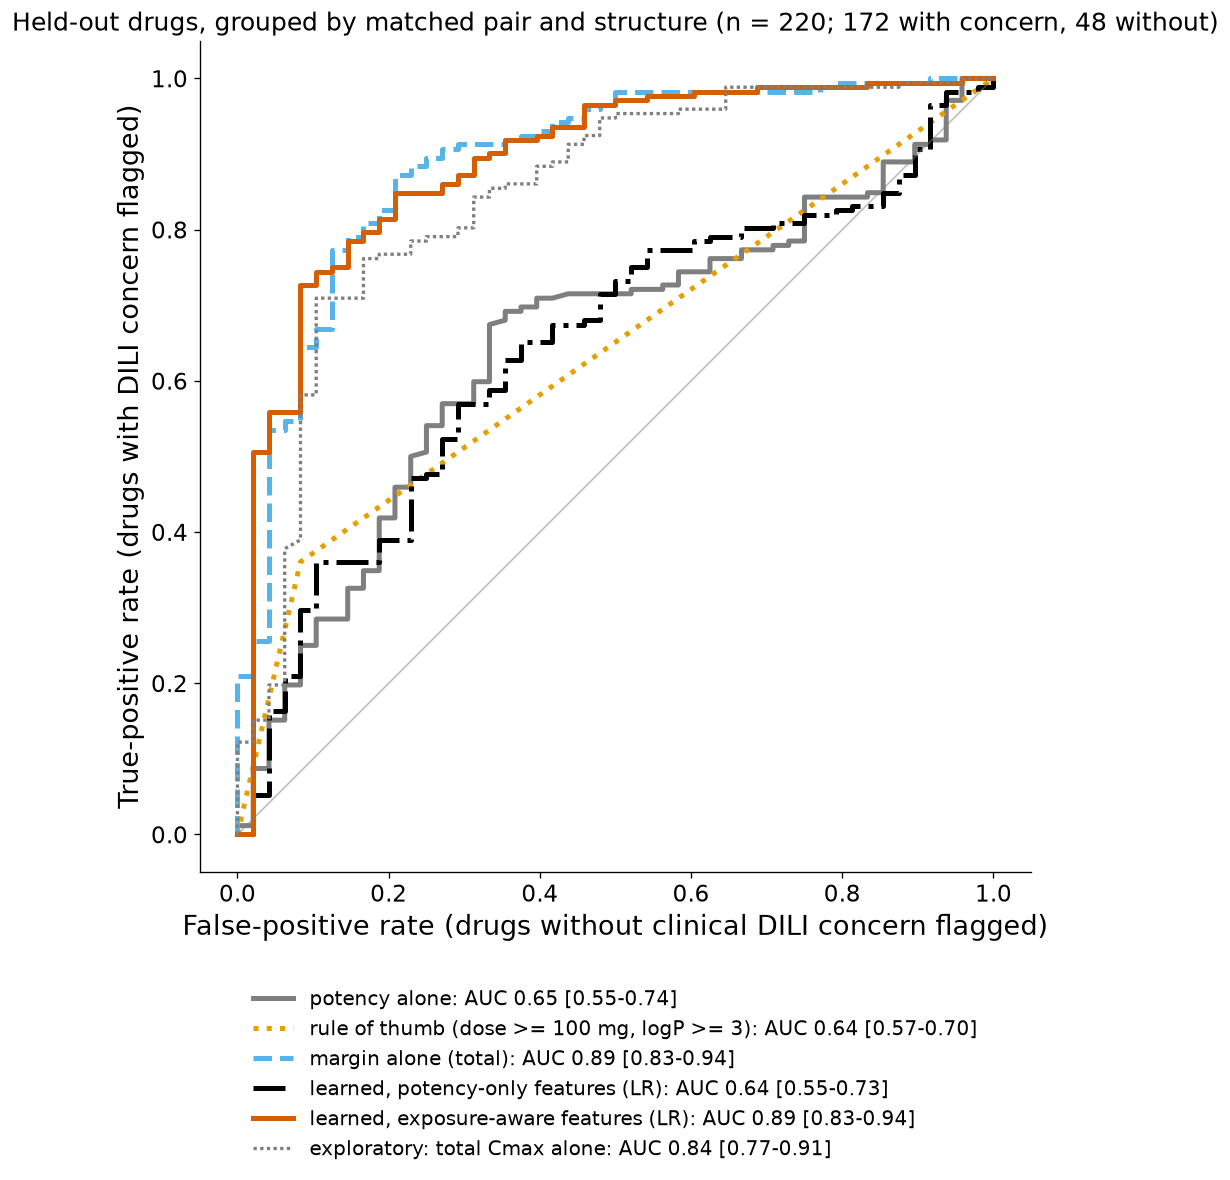
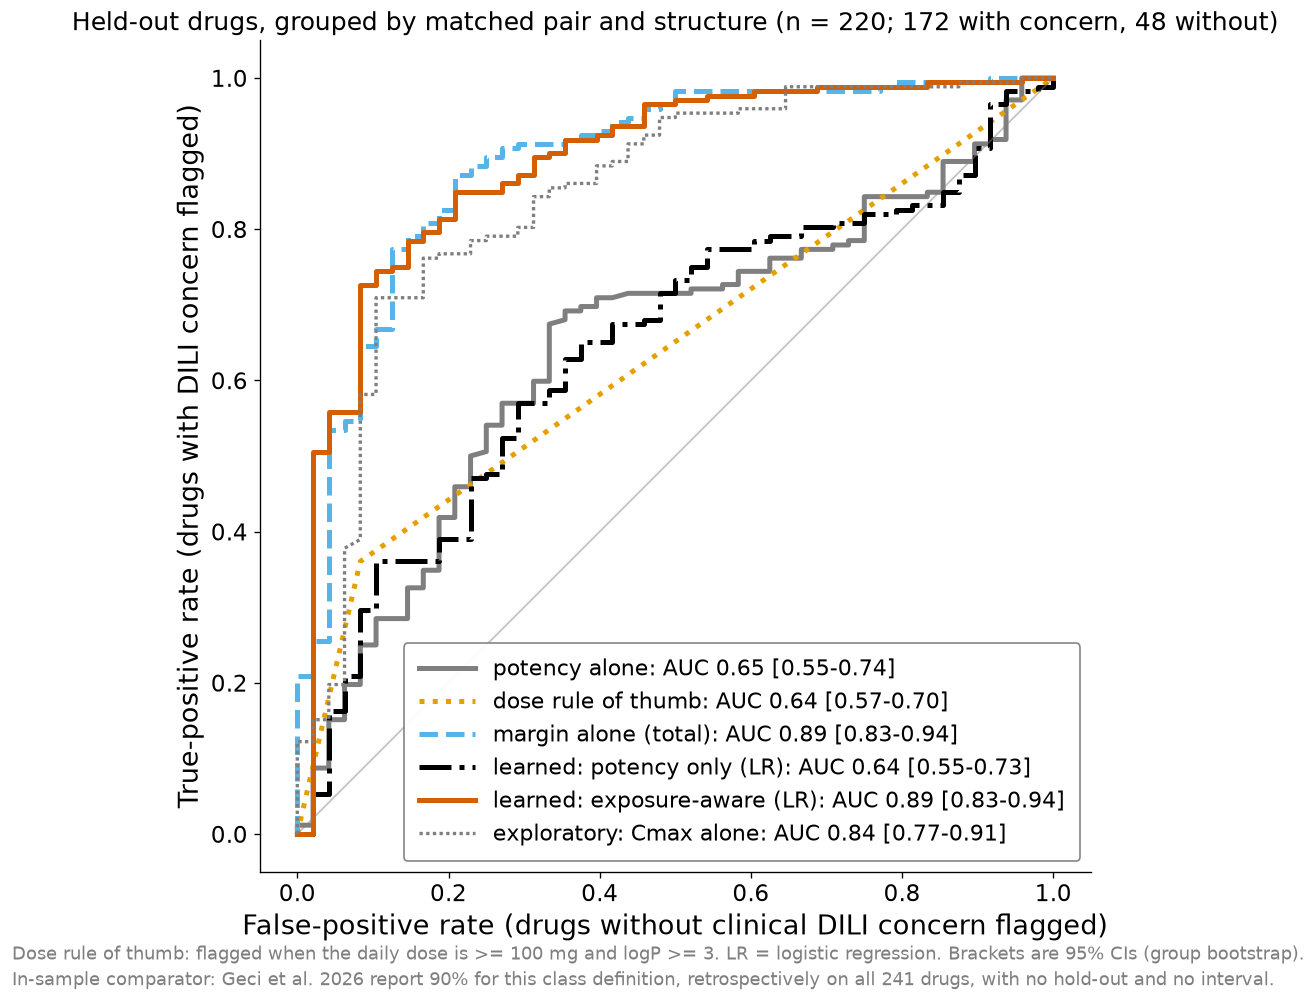
ROC legible at video size; the published comparison; count the exposure gap

Changed region(s): [[0.0, 0.0617, 0.9886, 0.9871], [0.0, 0.0, 0.9886, 0.0308]]

diff --git a/src/figures.py b/src/figures.py
@@ -217,16 +217,19 @@ def liver_overview(margins: pd.DataFrame, path: Path) -> Path:
 
 # --------------------------------------------------------------------------- validation
 
+# (arm name as the validation reports it, short label for the legend, colour, line style). The short
+# label keeps the legend inside the axes: below the axes it cost a quarter of the frame, and this
+# figure is read at video resolution. The rule-of-thumb definition moves to the footnote.
 ROC_ARMS = [
-    ("potency alone", GREY, "-"),
-    ("rule of thumb (dose >= 100 mg, logP >= 3)", ORANGE, ":"),
-    ("margin alone (total)", SKY, "--"),
-    ("learned, potency-only features (LR)", BLACK, "-."),
-    ("learned, exposure-aware features (LR)", VERMILLION, "-"),
+    ("potency alone", "potency alone", GREY, "-"),
+    ("rule of thumb (dose >= 100 mg, logP >= 3)", "dose rule of thumb", ORANGE, ":"),
+    ("margin alone (total)", "margin alone (total)", SKY, "--"),
+    ("learned, potency-only features (LR)", "learned: potency only (LR)", BLACK, "-."),
+    ("learned, exposure-aware features (LR)", "learned: exposure-aware (LR)", VERMILLION, "-"),
 ]
 
 
-EXPLORATORY_ROC_ARM = ("exploratory: total Cmax alone", GREY, (0, (1, 1)))
+EXPLORATORY_ROC_ARM = ("exploratory: total Cmax alone", "exploratory: Cmax alone", GREY, (0, (1, 1)))
 
 
 def roc_figure(result: dict, exploratory: dict, path: Path) -> Path:
@@ -235,18 +238,26 @@ def roc_figure(result: dict, exploratory: dict, path: Path) -> Path:
     scores = {**result["_scores"], **exploratory["_scores"]}
     aucs = {a["arm"]: a for a in result["arms"] + exploratory["arms"]}
     fig, ax = plt.subplots(figsize=(11, 9), dpi=120)
-    for name, colour, style in ROC_ARMS + [EXPLORATORY_ROC_ARM]:
+    for name, short, colour, style in ROC_ARMS + [EXPLORATORY_ROC_ARM]:
         fpr, tpr, _ = roc_curve(y, scores[name])
         a = aucs[name]
         ax.plot(fpr, tpr, color=colour, ls=style, lw=3 if not name.startswith("exploratory") else 2,
-                label=f"{name}: AUC {a['auc']:.2f} [{a['ci_low']:.2f}-{a['ci_high']:.2f}]")
+                label=f"{short}: AUC {a['auc']:.2f} [{a['ci_low']:.2f}-{a['ci_high']:.2f}]")
     ax.plot([0, 1], [0, 1], color=GREY, lw=1, alpha=0.5)
     ax.set_xlabel("False-positive rate (drugs without clinical DILI concern flagged)")
     ax.set_ylabel("True-positive rate (drugs with DILI concern flagged)")
     ax.set_title(f"Held-out drugs, grouped by matched pair and structure (n = {result['n']}; "
                  f"{result['n_positive']} with concern, {result['n_negative']} without)", fontsize=15)
-    ax.legend(loc="upper center", bbox_to_anchor=(0.5, -0.12), frameon=False, fontsize=12, ncol=1)
+    # Lower right: empty by construction in a ROC plot, so the legend costs no curve area.
+    ax.legend(loc="lower right", frameon=True, framealpha=0.95, edgecolor=GREY, fontsize=13,
+              borderpad=0.7, labelspacing=0.5, handlelength=2.6)
     ax.set_aspect("equal")
+    fig.text(0.01, 0.005,
+             f"Dose rule of thumb: flagged when the daily dose is >= {config.RULE_OF_THUMB_DOSE_MG:g} mg and "
+             f"logP >= {config.RULE_OF_THUMB_LOGP:g}. LR = logistic regression. Brackets are 95% CIs (group bootstrap)."
+             "\nIn-sample comparator: Geci et al. 2026 report 90% for this class definition, retrospectively on all "
+             "241 drugs, with no hold-out and no interval.",
+             fontsize=11, color=GREY, linespacing=1.4)
     return _save(fig, path)
 
 
@@ -278,6 +289,55 @@ def paired_difference_figure(result: dict, exploratory: dict, path: Path) -> Pat
 
 
 # --------------------------------------------------------------------------- F6 neural
+
+def neural_coverage_figure(coverage: pd.DataFrame, path: Path) -> Path:
+    """Where the pipeline stops on this dataset, and why: not at the chip, at the exposure half.
+
+    Three funnel bars for the counted stages, then the two comparator routes as separate bars,
+    because they measure different things and one chemical appears in both.
+    """
+    funnel = coverage.iloc[:3]
+    routes = coverage.iloc[3:5]
+    total = int(funnel["count"].iloc[0])
+    fig, (ax, ax_r) = plt.subplots(1, 2, **VIDEO, gridspec_kw={"width_ratios": [1.75, 1], "wspace": 0.05})
+
+    colours = [SKY, BLUE, VERMILLION]
+    for i, (_, row) in enumerate(funnel.iterrows()):
+        y = len(funnel) - 1 - i
+        ax.barh(y, row["count"], color=colours[i], height=0.5)
+        ax.annotate(f"{row['count']}", (row["count"], y), textcoords="offset points", xytext=(12, 0),
+                    va="center", fontsize=22, weight="bold", color=colours[i])
+    ax.set_yticks(range(len(funnel)))
+    # The qualifier rides with its stage, so no floating text can collide with a bar or the axis.
+    ax.set_yticklabels([f"{r['stage'].strip()}\n{r['detail']}" for _, r in funnel.iloc[::-1].iterrows()], fontsize=14)
+    ax.set_ylim(-0.6, len(funnel) - 0.4)
+    ax.set_xlim(0, total * 1.2)
+    ax.set_xlabel("chemicals", fontsize=14)
+    ax.set_title("The pipeline runs out of exposure data, not chip data", fontsize=20, pad=18)
+
+    route_colours = [GREEN, BLUE]
+    for i, (_, row) in enumerate(routes.iterrows()):
+        y = len(routes) - 1 - i
+        ax_r.barh(y, row["count"], color=route_colours[i], height=0.4)
+        ax_r.annotate(f"{row['count']}", (row["count"], y), textcoords="offset points", xytext=(10, 0),
+                      va="center", fontsize=20, weight="bold", color=route_colours[i])
+    ax_r.set_yticks(range(len(routes)))
+    ax_r.set_yticklabels([c.replace(" ", "\n", 1) for c in routes["comparator"]][::-1], fontsize=14)
+    ax_r.tick_params(axis="y", pad=8)
+    ax_r.set_ylim(-0.7, len(routes) - 0.3)
+    ax_r.set_xlim(0, max(routes["count"]) * 1.3)
+    ax_r.set_xlabel("chemicals", fontsize=14)
+    ax_r.set_title("...and the comparator\nthose few have", fontsize=17, pad=18)
+    for axis in (ax, ax_r):  # counts of chemicals: whole numbers only
+        axis.xaxis.set_major_locator(matplotlib.ticker.MaxNLocator(integer=True))
+
+    fig.text(0.01, -0.02,
+             f"Counted from the generated tables, not asserted: {coverage.attrs['check']}. The two routes measure "
+             "different things (a predicted population exposure and a measured clinical Cmax) and are never pooled "
+             "into one number. No published convention threshold exists for this endpoint, so no verdict is issued.",
+             fontsize=12, color=GREY, wrap=True)
+    return _save(fig, path)
+
 
 def neural_figure(neural_margins: pd.DataFrame, n_chemicals: int, n_active: int, path: Path) -> Path:
     """Two panels, because the two routes measure different things and must not share an axis."""

diff --git a/run_demo.py b/run_demo.py
@@ -69,12 +69,15 @@ def run_liver() -> tuple[pd.DataFrame, pd.DataFrame]:
     return margins, pairs
 
 
-def run_neural() -> tuple[pd.DataFrame, pd.DataFrame]:
+def run_neural() -> tuple[pd.DataFrame, pd.DataFrame, pd.DataFrame]:
     potency, margins = neural.margin_table()
+    coverage = neural.coverage(potency, margins)
     write_csv(potency, "neural_potency_table.csv")
     write_csv(margins, "neural_margin_table.csv")
+    write_csv(coverage, "neural_coverage.csv")
     figures.neural_figure(margins, len(potency), int(potency["active"].sum()), config.RESULTS / "neural_margins.png")
-    return potency, margins
+    figures.neural_coverage_figure(coverage, config.RESULTS / "neural_coverage.png")
+    return potency, margins, coverage
 
 
 def run_validation() -> dict:
@@ -95,7 +98,7 @@ def run_validation() -> dict:
     return out
 
 
-def summary_text(checks, liver_margins, pairs, neural_potency, neural_margins, validation) -> str:
+def summary_text(checks, liver_margins, pairs, neural_potency, neural_margins, neural_coverage, validation) -> str:
     lines = ["# Chip2Dose results (generated by run_demo.py; do not edit)", ""]
     lines += ["## Cross-checks (published values re-derived from their inputs)", ""]
     lines += [f"- {c['check']}: {c['n_checked']} checked, {c['n_mismatch']} mismatches ({c['tolerance']})" for c in checks]
@@ -132,7 +135,13 @@ def summary_text(checks, liver_margins, pairs, neural_potency, neural_margins, v
     lines += ["## Neural network-formation chip (EPA MEA)", "",
               f"- {len(neural_potency)} chemicals, {int(neural_potency['active'].sum())} active; "
               f"{neural_margins['compound'].nunique()} with an exposure comparator and a margin with band.",
-              "- No published convention threshold exists for this endpoint; no verdicts are issued.", ""]
+              "- No published convention threshold exists for this endpoint; no verdicts are issued.",
+              "- Exposure-data coverage (the limit on this endpoint, counted):"]
+    lines += [f"  - {row['stage'].strip()}: {row['count']}"
+              + (f" ({row['comparator']})" if row["comparator"] and row["comparator"] != "both" else "")
+              + (f" - {row['detail']}" if row["stage"].strip() == "in both routes" else "")
+              for _, row in neural_coverage.iterrows()]
+    lines += [f"  - check: {neural_coverage.attrs['check']}", ""]
     return "\n".join(lines)
 
 
@@ -229,11 +238,12 @@ def main(argv: list[str] | None = None) -> int:
     started = time.time()
     print("cross-checks ..."); checks = run_crosschecks()
     print("liver-chip margins and pair views ..."); liver_margins, pairs = run_liver()
-    print("neural-chip margins ..."); neural_potency, neural_margins = run_neural()
+    print("neural-chip margins ..."); neural_potency, neural_margins, neural_coverage = run_neural()
     validation = {}
     if not args.skip_validation:
         print("pre-registered validation (the slow step: minutes on a laptop) ..."); validation = run_validation()
-    summary = summary_text(checks, liver_margins, pairs, neural_potency, neural_margins, validation)
+    summary = summary_text(checks, liver_margins, pairs, neural_potency, neural_margins, neural_coverage,
+                           validation)
     if validation:
         output.atomic_write_text(config.RESULTS / "summary.md", summary)
     else:

diff --git a/src/neural.py b/src/neural.py
@@ -131,6 +131,43 @@ def drug_route(potency: pd.DataFrame) -> pd.DataFrame:
     return pd.DataFrame(rows)
 
 
+AED_ROUTE = "AED vs predicted exposure"
+DRUG_ROUTE = "network EC50 vs clinical Cmax"
+
+
+def coverage(potency: pd.DataFrame, margins: pd.DataFrame) -> pd.DataFrame:
+    """How far the pipeline gets on this dataset, counted rather than described: tested -> active ->
+    has a public human exposure comparator, split by which kind of comparator.
+
+    The two routes are counted separately because they measure different things, and a chemical can
+    appear in both. The last row reconciles the per-route counts with the number of chemicals, so a
+    reader never has to guess whether 13 + 9 is a total.
+    """
+    aed = set(margins.loc[margins["route"] == AED_ROUTE, "compound"])
+    drug = set(margins.loc[margins["route"] == DRUG_ROUTE, "compound"])
+    both = sorted(aed & drug)
+    active = set(potency.loc[potency["active"], "compound"])
+    if not (aed | drug) <= active:
+        raise ValueError(f"comparator without an active potency value: {sorted((aed | drug) - active)}")
+    rows = [
+        ("chemicals tested", len(potency), "", "EPA MEA network-formation set (Shafer et al. 2019)"),
+        ("active", int(potency["active"].sum()), "", "at least one network-formation EC50"),
+        ("with a human exposure comparator", len(aed | drug), "",
+         "the only chemicals a margin can be computed for"),
+        ("  via predicted exposure", len(aed), "EPA ExpoCast prediction", "AED / predicted population exposure"),
+        ("  via measured exposure", len(drug), "measured clinical Cmax", "network EC50 / free clinical Cmax"),
+        ("  in both routes", len(both), "both", ", ".join(both) or "none"),
+    ]
+    frame = pd.DataFrame(rows, columns=["stage", "count", "comparator", "detail"])
+    # Completeness check: per-route rows must reconcile with unique chemicals and with the table.
+    reconciles = len(aed) + len(drug) - len(both) == len(aed | drug) == margins["compound"].nunique()
+    if not (reconciles and len(margins) == len(aed) + len(drug)):
+        raise ValueError("neural coverage counts do not reconcile with the margin table")
+    frame.attrs["check"] = (f"{len(aed)} + {len(drug)} = {len(margins)} route rows for "
+                            f"{len(aed | drug)} chemicals ({len(both)} in both)")
+    return frame
+
+
 def margin_table() -> tuple[pd.DataFrame, pd.DataFrame]:
     """(potency for all chemicals, margins where an exposure comparator exists)."""
     potency = potency_table()

diff --git a/tests/test_data_and_labels.py b/tests/test_data_and_labels.py
@@ -63,3 +63,37 @@ def test_neural_table_covers_every_chemical_and_issues_no_verdict():
     potency, margins = neural.margin_table()
     assert len(potency) == 136 and potency["active"].sum() == 82
     assert (margins["verdict"] == neural.NO_CONVENTION).all()
+
+
+def test_neural_coverage_counts_reconcile_with_the_margin_table():
+    """The funnel is a measurement: every count is re-derived here from the tables, not asserted."""
+    from src import neural
+    potency, margins = neural.margin_table()
+    coverage = neural.coverage(potency, margins)
+    counts = dict(zip(coverage["stage"].str.strip(), coverage["count"]))
+    assert counts["chemicals tested"] == len(potency)
+    assert counts["active"] == int(potency["active"].sum())
+    assert counts["with a human exposure comparator"] == margins["compound"].nunique()
+    # the sanity row: per-route counts are not a total, and the table says so
+    assert counts["via predicted exposure"] + counts["via measured exposure"] == len(margins)
+    assert (counts["via predicted exposure"] + counts["via measured exposure"]
+            - counts["in both routes"] == counts["with a human exposure comparator"])
+    assert "route rows" in coverage.attrs["check"]
+
+
+def test_neural_coverage_refuses_counts_that_do_not_reconcile():
+    """A comparator for a chemical with no active potency value is a counting error, not a result."""
+    import pandas as pd
+    import pytest
+    from src import neural
+    potency, margins = neural.margin_table()
+    broken = margins.copy()
+    broken.loc[broken.index[0], "compound"] = "not-a-tested-chemical"
+    with pytest.raises(ValueError, match="comparator without an active potency value"):
+        neural.coverage(potency, broken)
+
+
+def test_no_verdict_is_issued_for_any_neural_compound():
+    from src import neural
+    _, margins = neural.margin_table()
+    assert set(margins["verdict"]) == {neural.NO_CONVENTION}

diff --git a/tests/test_pairs_and_outputs.py b/tests/test_pairs_and_outputs.py
@@ -236,3 +236,11 @@ def test_every_result_writer_goes_through_the_atomic_helper(tmp_path, monkeypatc
     output.atomic_write_text(tmp_path / "probe.md", "text")
     figures.pair_view(liver.margin_table(), "troglitazone", "pioglitazone", tmp_path / "probe.png")
     assert seen == ["probe.csv", "probe.md", "probe.png"]
+
+
+def test_roc_legend_labels_stay_short_enough_to_sit_inside_the_axes():
+    """The ROC legend sits in the empty lower-right corner so the curve keeps the frame. A longer
+    label grows that box into the curves. 28 characters is the longest label measured clear of every
+    curve at 1920x1080; the check is the rendered figure, this is the guard against drifting past it."""
+    labels = [short for _, short, _, _ in figures.ROC_ARMS + [figures.EXPLORATORY_ROC_ARM]]
+    assert max(len(s) for s in labels) <= 28, labels

diff --git a/README.md b/README.md
@@ -14,7 +14,7 @@ The output is a ratio against patient exposure or a daily dose in mg, never a 0-
 ```bash
 git clone https://github.com/millerandmuller/chip2dose && cd chip2dose
 make            # creates .venv (Python 3.11), downloads + verifies data, writes results/
-make test       # 57 tests
+make test       # 75 tests
 ```
 
 A full `make` takes about 2-3 minutes on an idle laptop CPU and up to ~10 minutes on a busy one; the
@@ -41,9 +41,10 @@ Other entry points (a few seconds each; every run first checks the input checksu
 | `results/dose_view.png` | the output in real units for troglitazone / pioglitazone: the daily dose at which the chip's toxic concentration is reached, with band, next to the prescribed dose. An illustration of the output; potency alone already ranks this pair correctly, and the comparative evidence is the benchmark |
 | `results/pair_view.png`, `results/pairs/` | potency, patient exposure and margin for each of the 7 matched toxic/non-toxic pairs |
 | `results/liver_margin_table.csv`, `liver_margins.png` | 27 Liver-Chip drugs: total and free margin, band, verdict against the published convention, equivalent daily dose where a dose-matched Cmax exists, assumptions |
-| `results/roc.png`, `paired_difference.png`, `validation_*.csv` | the pre-registered validation on 220 drugs |
+| `results/roc.png`, `paired_difference.png`, `validation_*.csv` | the pre-registered validation on 220 drugs; `roc.png` names the in-sample comparator from Geci et al. (90 % for the same class definition, retrospective, 241 drugs) |
 | `results/failure_cases.csv` | drugs the model gets wrong, in real units (cut chosen in-sample: an illustration, not a performance estimate) |
 | `results/neural_margin_table.csv`, `neural_margins.png` | the neural application |
+| `results/neural_coverage.csv`, `neural_coverage.png` | how far the pipeline gets on the neural set: 136 tested, 82 active, 21 with a public human exposure comparator, split by comparator type |
 | `results/crosschecks.csv` | published numbers re-derived from their inputs, with every mismatch listed |
 
 ## Method
@@ -106,6 +107,30 @@ Cmax to lowest in-vitro toxicity, in a retrospective analysis of all 241 drugs (
 benchmark is the out-of-sample test of their ratio, under a plan and a split committed before the first evaluation, with
 structure-grouped folds and paired confidence intervals.
 
+### Does the published number survive a structure-grouped split?
+
+Geci et al. report two AUCs for their ratio, one per class definition. We reproduce both class definitions exactly, so
+each of their figures has a counterpart here:
+
+| Class definition (their wording) | Geci et al.: retrospective, 241 drugs | Here: pre-registered, grouped, held-out |
+|---|---|---|
+| "No- from Most-DILI and Clinical Development Failure drugs" | 96 % (point estimate, no CI) | **0.938 [0.884, 0.980]** (n = 152, 132 groups) |
+| "No- from Less-, Most-DILI and Clinical Development Failures" | 90 % (point estimate, no CI) | **0.889 [0.829, 0.940]** (n = 220, 177 groups) |
+
+Both of our intervals contain their published value: the relationship holds on drugs the model never saw, with matched
+pairs, identical molecules and structural neighbours (Morgan Tanimoto >= 0.4) kept out of the training folds. The two
+columns are not like for like, in three ways that all belong in this same paragraph: we cover 220 of the 241 drugs
+(oral only, one row per molecule, non-ambiguous label); their values carry no interval, so "contains their value" is a
+statement about our uncertainty and not about theirs; and the two ratios are not built from the same assays, because
+their ratio uses functional toxicity only ("Functional toxicity refers to all in vitro toxicity data except BSEP
+inhibition") while our lowest POD is the minimum over all available assays, BSEP included. A BSEP-excluded margin is
+listed under future work rather than added here: a new arm after the first evaluation would break the pre-registration
+this comparison rests on.
+
+One comparison to avoid, because the 96 % is the number an abstract-reader remembers: setting that 96 % against our
+0.889 suggests a drop of about 0.07 from out-of-sample validation. It is an artefact of comparing two different class
+definitions. The matched rows above are the comparison.
+
 ## Findings we report against ourselves
 
 - **The hero pair is not "identical potency".** Troglitazone (withdrawn) and pioglitazone (still prescribed) are a
@@ -120,10 +145,14 @@ structure-grouped folds and paired confidence intervals.
   longer confirm the order: inconclusive, not a demonstrated reversal.
 - **Pioglitazone on the literature benchmark:** its lowest POD is a potent BSEP IC50 (0.3 uM), so the margin ranks it
   riskier than troglitazone, the opposite of the clinic.
-- **Neural application:** of 136 chemicals (82 active), 21 have an exposure comparator in the data; the table reports
-  margins only for those, in two separate panels because the two routes measure different things (pharmaceuticals:
-  EC50 / free clinical Cmax; environmental chemicals: EPA's administered equivalent dose / predicted population
-  exposure). No published threshold exists for this endpoint, so no verdict is issued.
+- **Neural application — the exposure half is the bottleneck, and we counted it.** Of 136 chemicals tested on the
+  network-formation chip, 82 are active, and **21 have any public human exposure value to compare against**: 13 through
+  the EPA's predicted population exposure, 9 through a measured clinical Cmax, simvastatin through both (13 + 9 = 22
+  route rows for 21 chemicals). So for roughly three quarters of the chemicals this chip has already measured, the
+  step from concentration to dose cannot be taken by anyone — not because the chip data are missing, but because the
+  published exposure half is. The counts are generated, not asserted: `results/neural_coverage.csv` and
+  `neural_coverage.png`. Margins are reported for those 21 only, in two separate panels because the two routes measure
+  different things and are never pooled. No published threshold exists for this endpoint, so no verdict is issued.
 - The literature benchmark's lowest POD is the minimum over however many assays were run on a drug; the number of
   assays alone separates the outcome about as well as potency (AUC 0.66). This favours the potency arm, i.e. works
   against our headline, and is reported rather than corrected.

diff --git a/writeup/report_outline.md b/writeup/report_outline.md
@@ -123,8 +123,12 @@ grouping and the split hash. Then what the freeze does and does not cover, from 
 - **7.2** The benchmark: arms table, ROC (`results/roc.png`), paired differences
   (`results/paired_difference.png`), and the in-sample/out-of-sample comparison from Section 2.1.
 - **7.3** The exploratory exposure-alone analysis, labelled as added after the first run.
-- **7.4** The second organ: potency for 136 chemicals, margins for the 21 with an exposure comparator, and
-  the count of how few that is.
+- **7.4** The second organ, and the measurement of the field's bottleneck: 136 chemicals tested, 82
+  active, 21 with any public human exposure comparator (13 predicted by the EPA, 9 measured clinical
+  Cmax, simvastatin in both — 22 route rows for 21 chemicals). Figure: `results/neural_coverage.png`,
+  table: `results/neural_coverage.csv`, both generated. The point for the reader: for roughly three
+  quarters of the chemicals this chip has already measured, nobody can take the step from
+  concentration to dose, and the missing half is the published exposure value, not the chip.
 
 ## 8. Failures, limitations and bias *(outline)*
 

diff --git a/results/summary.md b/results/summary.md
@@ -70,3 +70,11 @@
 
 - 136 chemicals, 82 active; 21 with an exposure comparator and a margin with band.
 - No published convention threshold exists for this endpoint; no verdicts are issued.
+- Exposure-data coverage (the limit on this endpoint, counted):
+  - chemicals tested: 136
+  - active: 82
+  - with a human exposure comparator: 21
+  - via predicted exposure: 13 (EPA ExpoCast prediction)
+  - via measured exposure: 9 (measured clinical Cmax)
+  - in both routes: 1 - Simvastatin
+  - check: 13 + 9 = 22 route rows for 21 chemicals (1 in both)
